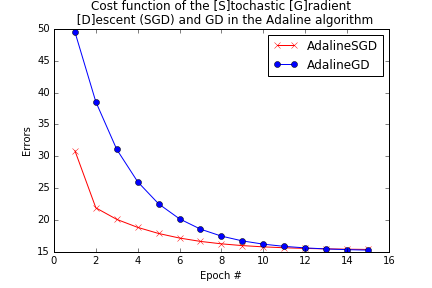
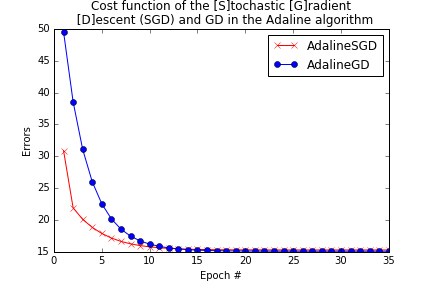
Updated figures and code after fixing GD

diff --git a/adaline_script.py b/adaline_script.py
@@ -10,9 +10,6 @@ import pandas as pd
 df = pd.read_csv('https://archive.ics.uci.edu/ml/'
     'machine-learning-databases/iris/iris.data', header=None)
     
-# View data frame head and tail.
-print(df.head())
-
 import matplotlib.pyplot as plt
 import numpy as np
 
@@ -37,6 +34,7 @@ plt.legend(loc='upper left')
 plt.title('Species vs petal and sepal length - Separable dataset')
 plt.savefig('SetosaVersicolorFig.png')
 plt.clf()
+#plt.show()
 
 """
 We can see that the data is linearly separable. Now, let us run the 
@@ -52,9 +50,9 @@ X_std = np.copy(X)
 X_std[:, 0] = (X[:, 0] - X[:, 0].mean()) / X[:, 0].std()
 X_std[:, 1] = (X[:, 1] - X[:, 1].mean()) / X[:, 1].std()
 
-adln = AdalineGD(eta=0.01, n_iter=15)
+adln = AdalineGD(eta=0.01, n_iter=25)
 adln.fit(X_std, y)
-adln1 = AdalineSGD(eta=0.01, n_iter=15)
+adln1 = AdalineSGD(eta=0.01, n_iter=25)
 adln1.fit(X_std, y)
 
 plt.plot(range(1, len(adln1.errors_) + 1), adln1.errors_,
@@ -68,6 +66,7 @@ plt.title('Errors in the [S]tochastic [G]radient\n ' \
           ' [D]escent (SGD) and GD in the Adaline algorithm')
 plt.savefig('SGDvsGDErrors.png')
 plt.clf()
+#plt.show()
 
 # plot showing convergence of the cost function
 plt.plot(range(1, len(adln1.errors_) + 1), adln1.cost_,
@@ -81,6 +80,7 @@ plt.title('Cost function in the [S]tochastic [G]radient\n ' \
           ' [D]escent (SGD) and GD in the Adaline algorithm')
 plt.savefig('SGDvsGDCost.png')
 plt.clf()
+#plt.show()
 
 """Next up we look at non-separable data """
 # Extract the last 100 rows of the fourth column of the data frame. 
@@ -104,6 +104,7 @@ plt.legend(loc='upper left')
 plt.title('Species vs petal and sepal length - Non-separable dataset')
 plt.savefig('VersicolorVirginicaFig.png')
 plt.clf()
+#plt.show()
 
 """
 We can see that the data is linearly separable. Now, let us run the 
@@ -119,9 +120,9 @@ X_std = np.copy(X)
 X_std[:, 0] = (X[:, 0] - X[:, 0].mean()) / X[:, 0].std()
 X_std[:, 1] = (X[:, 1] - X[:, 1].mean()) / X[:, 1].std()
 
-adln = AdalineGD(eta=0.01, n_iter=15)
+adln = AdalineGD(eta=0.01, n_iter=35)
 adln.fit(X_std, y)
-adln1 = AdalineSGD(eta=0.01, n_iter=15)
+adln1 = AdalineSGD(eta=0.01, n_iter=35)
 adln1.fit(X_std, y)
 
 plt.plot(range(1, len(adln1.errors_) + 1), adln1.errors_,
@@ -135,6 +136,7 @@ plt.title('Errors in the [S]tochastic [G]radient\n ' \
           ' [D]escent (SGD) and GD in the Adaline algorithm')
 plt.savefig('SGDvsGDErrorsNS.png')
 plt.clf()
+#plt.show()
 
 # plot showing convergence of the cost function
 plt.plot(range(1, len(adln1.errors_) + 1), adln1.cost_,
@@ -148,3 +150,4 @@ plt.title('Cost function of the [S]tochastic [G]radient\n ' \
           ' [D]escent (SGD) and GD in the Adaline algorithm')
 plt.savefig('SGDvsGDCostNS.png')
 plt.clf()
+#plt.show()

diff --git a/adalineSGD.py b/adalineSGD.py
@@ -65,13 +65,13 @@ class AdalineSGD(object):
             # Loop through the datasets
             for j in range(X.shape[0]):
                 
+                # update weights and cost function
+                cost += self._weight_update(X[j, ], y[j])
+                
                 # update number of errors
                 difference = self.predict(X[j, ]) - y[j]
                 error += int(difference != 0)
-                
-                # update weights and cost function
-                cost += self._weight_update(X[j, ], y[j])
-            
+                            
             # Append the number of errors and cost function at the end of each
             # epoch
             self.errors_.append(error)
@@ -94,12 +94,12 @@ class AdalineSGD(object):
         
     # update weights according to the stochastic gradient descent method
     def _weight_update(self, X, y):
-        difference = (y - self.activation(X))
-        self.w_[0] += self.eta * difference
-        self.w_[1:] += self.eta * difference * X        
+        diff = (y - self.activation(X))
+        self.w_[0] += self.eta * diff
+        self.w_[1:] += self.eta * diff * X        
    
         # Compute the cost function
-        cost =  (difference**2) / 2.0        
+        cost =  (diff**2) / 2.0        
         return cost       
           
     """Method to compute the net input. """

diff --git a/adalineGD.py b/adalineGD.py
@@ -58,7 +58,7 @@ class AdalineGD(object):
         for i in range(self.n_iter):
             err = 0
             # compute errors per epoch
-            for j in range(X.shape[1]):
+            for j in range(X.shape[0]):
                 status = y[j] - self.predict(X[j, ]) 
                 err += int(status != 0.0)
                 
